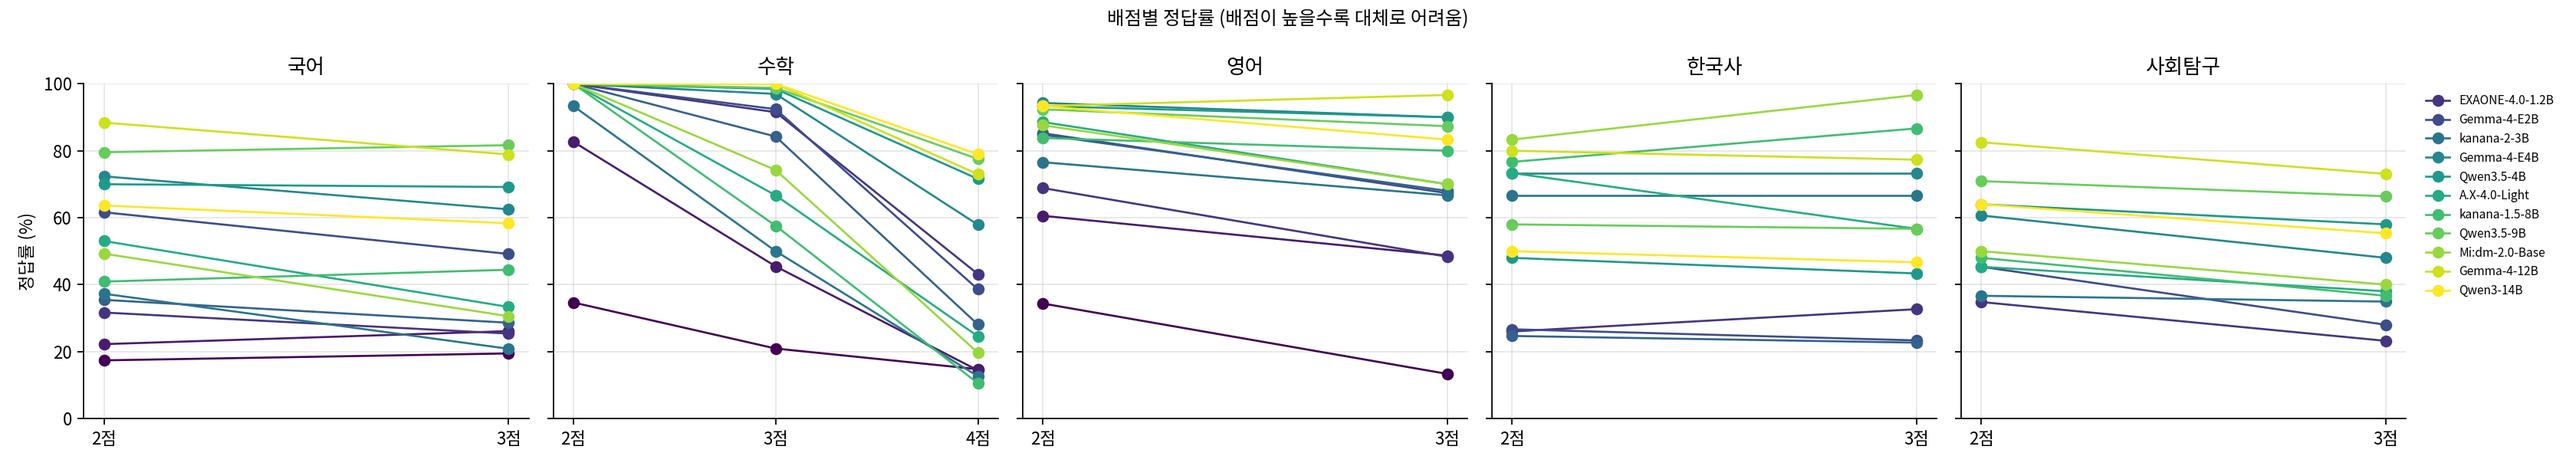
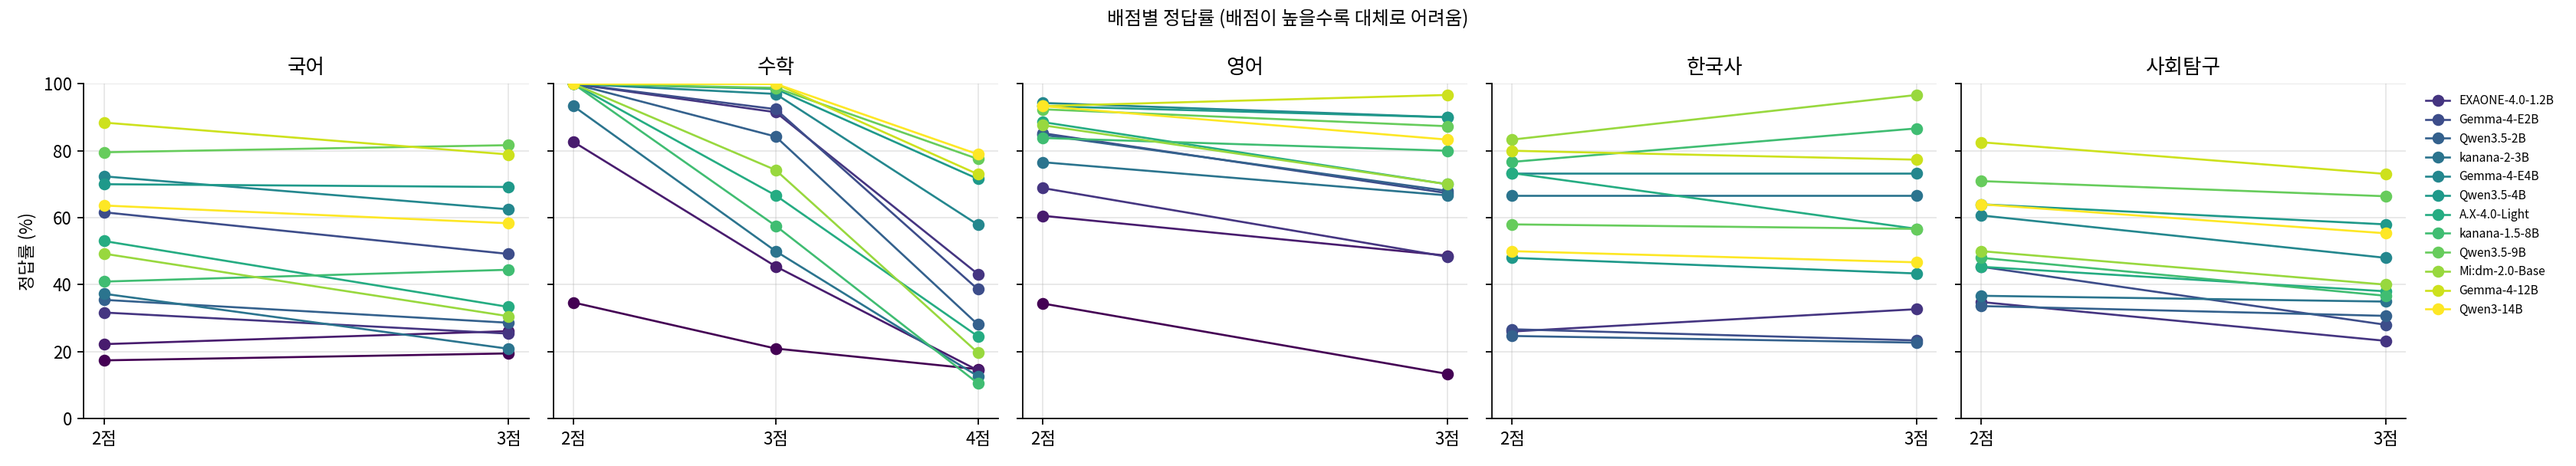
Update results (66 runs)

Changed region(s): [[0.75, 0.2812, 1.0, 0.6875]]

diff --git a/README.md b/README.md
@@ -15,7 +15,7 @@
 - **국어가 수학보다 어렵다.** 2B 이상 모델 기준으로 국어 정답률이 수학보다 평균 12%p 낮다. 2,000–4,000자 길이의 지문을 읽고 선택지 사이의 미묘한 차이를 가려내는 일이 작은 모델에게는 계산보다 어렵다.
 - **국산 모델**: HyperCLOVAX-SEED 0.5B(국어 18점, 수학 19점, 영어 28점), EXAONE-4.0-1.2B(국어 31점, 수학 75점, 영어 63점, 한국사 15점), kanana-2-3B(국어 34점, 수학 39점, 영어 74점, 한국사 33점), A.X-4.0-Light(국어 49점, 수학 56점, 영어 83점, 한국사 32점), kanana-1.5-8B(국어 45점, 수학 42점, 영어 83점, 한국사 41점), Mi:dm-2.0-Base(국어 44점, 수학 54점, 영어 82점, 한국사 46점).
 
-> 마지막 업데이트: 2026-11-20 09:57 KST. 평가가 진행되는 동안 모델 하나가 끝날 때마다 이 페이지가 자동으로 갱신된다.
+> 마지막 업데이트: 2026-11-20 09:59 KST. 평가가 진행되는 동안 모델 하나가 끝날 때마다 이 페이지가 자동으로 갱신된다.
 
 ## 왜 소형 모델인가
 
@@ -92,7 +92,7 @@
 | Qwen3.5-0.8B | 알리바바 | 0.8 | 보급형 스마트폰 | 24.4 <sub>(18–32)</sub> | 22.9 <sub>(20–28)</sub> | 36.5 <sub>(35–39)</sub> | 36.3 <sub>(33–39)</sub> | 33.5 <sub>(31–36)</sub> | 57.0 <sub>(53–62)</sub> | — | — | — | — | — | — |
 | EXAONE-4.0-1.2B | LG AI연구원 | 1.28 | 보급형 스마트폰 | 31.2 <sub>(28–35)</sub> | 31.5 <sub>(27–35)</sub> | 77.6 <sub>(70–82)</sub> | 72.9 <sub>(63–82)</sub> | 73.5 <sub>(71–78)</sub> | 62.7 <sub>(61–64)</sub> | 15.0 <sub>(13–18)</sub> | 19.9 <sub>(11–28)</sub> | 7.3 <sub>(3–10)</sub> | 15.1 <sub>(14–17)</sub> | 13.7 <sub>(7–21)</sub> | 13.5 <sub>(12–16)</sub> |
 | Gemma-4-E2B | 구글 | 2.0 | 중급 스마트폰 | 67.9 <sub>(64–71)</sub> | 61.2 <sub>(59–63)</sub> | 75.0 <sub>(72–80)</sub> | 73.0 <sub>(69–77)</sub> | 76.3 <sub>(76–77)</sub> | 79.9 <sub>(78–83)</sub> | 12.3 <sub>(10–14)</sub> | 28.3 <sub>(22–33)</sub> | 12.3 <sub>(9–14)</sub> | 24.0 <sub>(21–27)</sub> | 12.7 <sub>(12–14)</sub> | 10.0 <sub>(9–12)</sub> |
-| Qwen3.5-2B | 알리바바 | 2.0 | 보급형 스마트폰 | 33.6 <sub>(31–36)</sub> | 37.7 <sub>(34–42)</sub> | 64.7 <sub>(63–66)</sub> | 59.9 <sub>(56–65)</sub> | 62.1 <sub>(61–63)</sub> | 79.7 <sub>(78–81)</sub> | 11.7 <sub>(10–14)</sub> | — | — | — | — | — |
+| Qwen3.5-2B | 알리바바 | 2.0 | 보급형 스마트폰 | 33.6 <sub>(31–36)</sub> | 37.7 <sub>(34–42)</sub> | 64.7 <sub>(63–66)</sub> | 59.9 <sub>(56–65)</sub> | 62.1 <sub>(61–63)</sub> | 79.7 <sub>(78–81)</sub> | 11.7 <sub>(10–14)</sub> | 20.3 <sub>(17–23)</sub> | 15.7 <sub>(14–17)</sub> | 15.1 <sub>(14–17)</sub> | 12.9 <sub>(10–15)</sub> | 15.5 <sub>(12–18)</sub> |
 | kanana-2-3B | 카카오 | 3.0 | 중급 스마트폰 | 32.5 <sub>(30–34)</sub> | 36.0 <sub>(29–40)</sub> | 42.6 <sub>(29–54)</sub> | 38.9 <sub>(28–51)</sub> | 36.3 <sub>(25–49)</sub> | 73.6 <sub>(68–80)</sub> | 33.3 <sub>(27–38)</sub> | 28.3 <sub>(20–33)</sub> | 19.7 <sub>(17–24)</sub> | 12.4 <sub>(10–14)</sub> | 15.7 <sub>(15–16)</sub> | 13.0 <sub>(10–18)</sub> |
 | Gemma-4-E4B | 구글 | 4.0 | 중급 스마트폰 | 77.2 <sub>(69–83)</sub> | 73.3 <sub>(67–77)</sub> | 82.7 <sub>(80–84)</sub> | 79.3 <sub>(77–81)</sub> | 88.0 <sub>(84–92)</sub> | 93.0 <sub>(88–98)</sub> | 36.7 <sub>(31–41)</sub> | 32.3 <sub>(29–34)</sub> | 22.0 <sub>(17–28)</sub> | 32.7 <sub>(31–34)</sub> | 28.0 <sub>(22–31)</sub> | 17.7 <sub>(15–23)</sub> |
 | Qwen3.5-4B | 알리바바 | 4.0 | 중급 스마트폰 | 75.0 <sub>(71–81)</sub> | 70.7 <sub>(68–72)</sub> | 88.8 <sub>(86–92)</sub> | 85.9 <sub>(82–88)</sub> | 90.5 <sub>(82–96)</sub> | 92.3 <sub>(88–95)</sub> | 22.6 <sub>(20–25)</sub> | 36.7 <sub>(33–40)</sub> | 19.9 <sub>(19–22)</sub> | 40.9 <sub>(38–46)</sub> | 26.7 <sub>(25–29)</sub> | 26.8 <sub>(24–31)</sub> |
@@ -164,7 +164,7 @@
 | Qwen3.5-0.8B | 0.23 / 0.14 / 0.46 / 0.46 / 12622 | 0.37 / 0.28 / 0.59 / 0.54 / 13733 | 0.58 / 0.54 / 0.18 / 0.18 / 9809 | — | — |
 | EXAONE-4.0-1.2B | 0.30 / 0.29 / 0.04 / 0.01 / 1520 | 0.72 / 0.70 / 0.18 / 0.14 / 6924 | 0.64 / 0.61 / 0.06 / 0.00 / 1123 | 0.29 / 0.27 / 0.13 / 0.03 / 1631 | 0.29 / 0.28 / 0.03 / 0.01 / 2341 |
 | Gemma-4-E2B | 0.59 / 0.58 / 0.00 / 0.00 / 1897 | 0.71 / 0.71 / 0.00 / 0.00 / 3471 | 0.81 / 0.81 / 0.00 / 0.00 / 1278 | 0.25 / 0.25 / 0.00 / 0.00 / 1140 | 0.37 / 0.37 / 0.00 / 0.00 / 1870 |
-| Qwen3.5-2B | 0.34 / 0.29 / 0.23 / 0.25 / 12221 | 0.63 / 0.59 / 0.37 / 0.37 / 10424 | 0.81 / 0.81 / 0.04 / 0.05 / 7274 | 0.24 / 0.18 / 0.27 / 0.27 / 10510 | — |
+| Qwen3.5-2B | 0.34 / 0.29 / 0.23 / 0.25 / 12221 | 0.63 / 0.59 / 0.37 / 0.37 / 10424 | 0.81 / 0.81 / 0.04 / 0.05 / 7274 | 0.24 / 0.18 / 0.27 / 0.27 / 10510 | 0.32 / 0.28 / 0.21 / 0.21 / 10868 |
 | kanana-2-3B | 0.34 / 0.33 / 0.00 / 0.00 / 176 | 0.39 / 0.39 / 0.01 / 0.00 / 596 | 0.74 / 0.74 / 0.00 / 0.00 / 135 | 0.67 / 0.67 / 0.00 / 0.00 / 168 | 0.36 / 0.36 / 0.01 / 0.00 / 256 |
 | Gemma-4-E4B | 0.70 / 0.69 / 0.02 / 0.00 / 1955 | 0.81 / 0.81 / 0.01 / 0.00 / 3955 | 0.93 / 0.93 / 0.00 / 0.00 / 1105 | 0.73 / 0.73 / 0.00 / 0.00 / 1503 | 0.54 / 0.54 / 0.00 / 0.00 / 2379 |
 | Qwen3.5-4B | 0.70 / 0.70 / 0.04 / 0.07 / 8813 | 0.88 / 0.87 / 0.12 / 0.12 / 7250 | 0.93 / 0.92 / 0.01 / 0.00 / 3809 | 0.46 / 0.45 / 0.03 / 0.05 / 8785 | 0.61 / 0.60 / 0.05 / 0.07 / 9120 |
